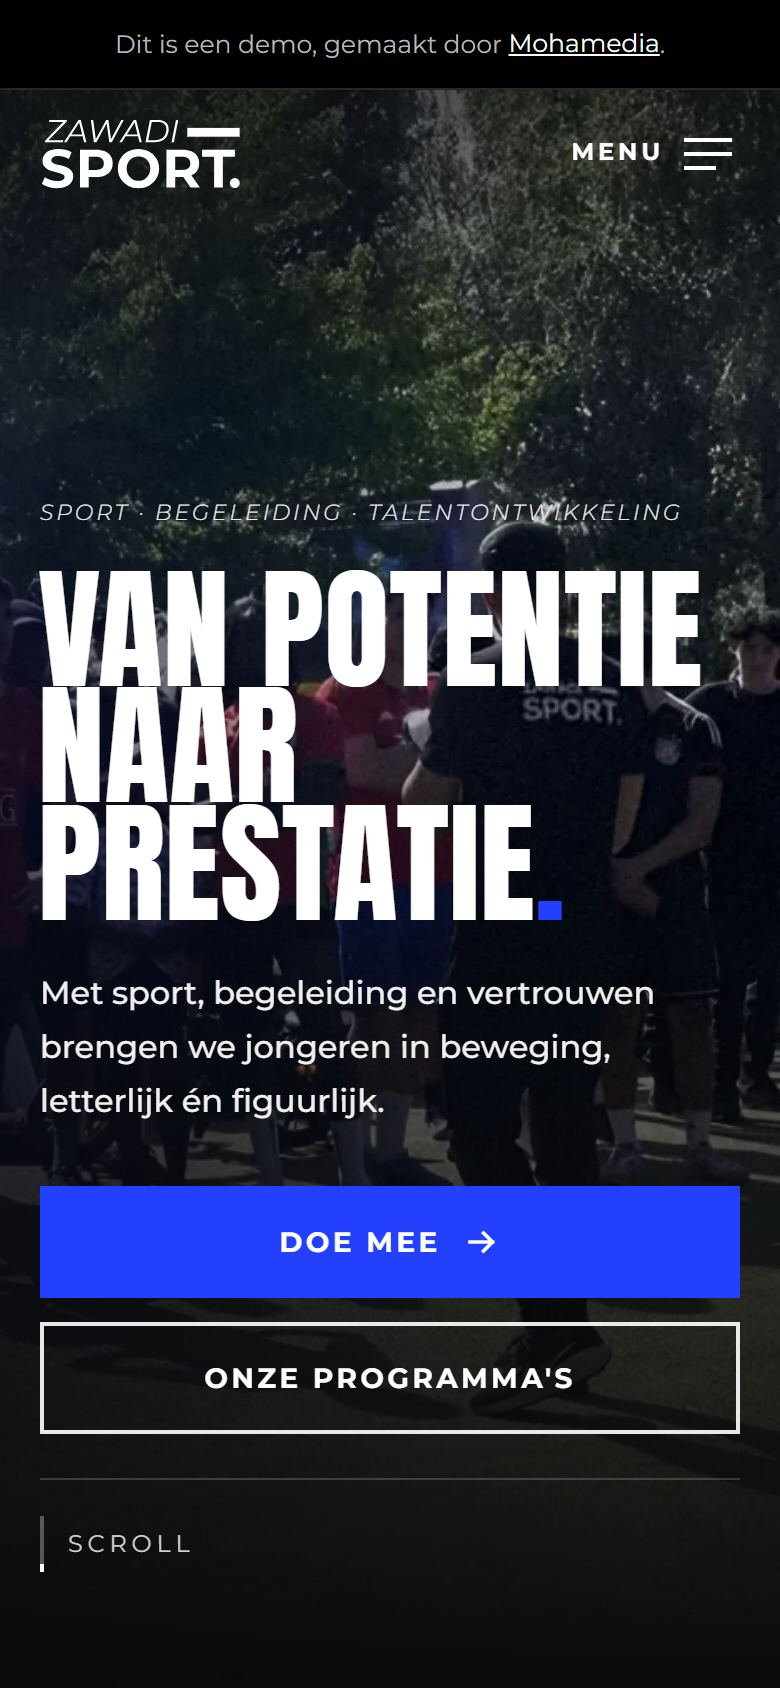
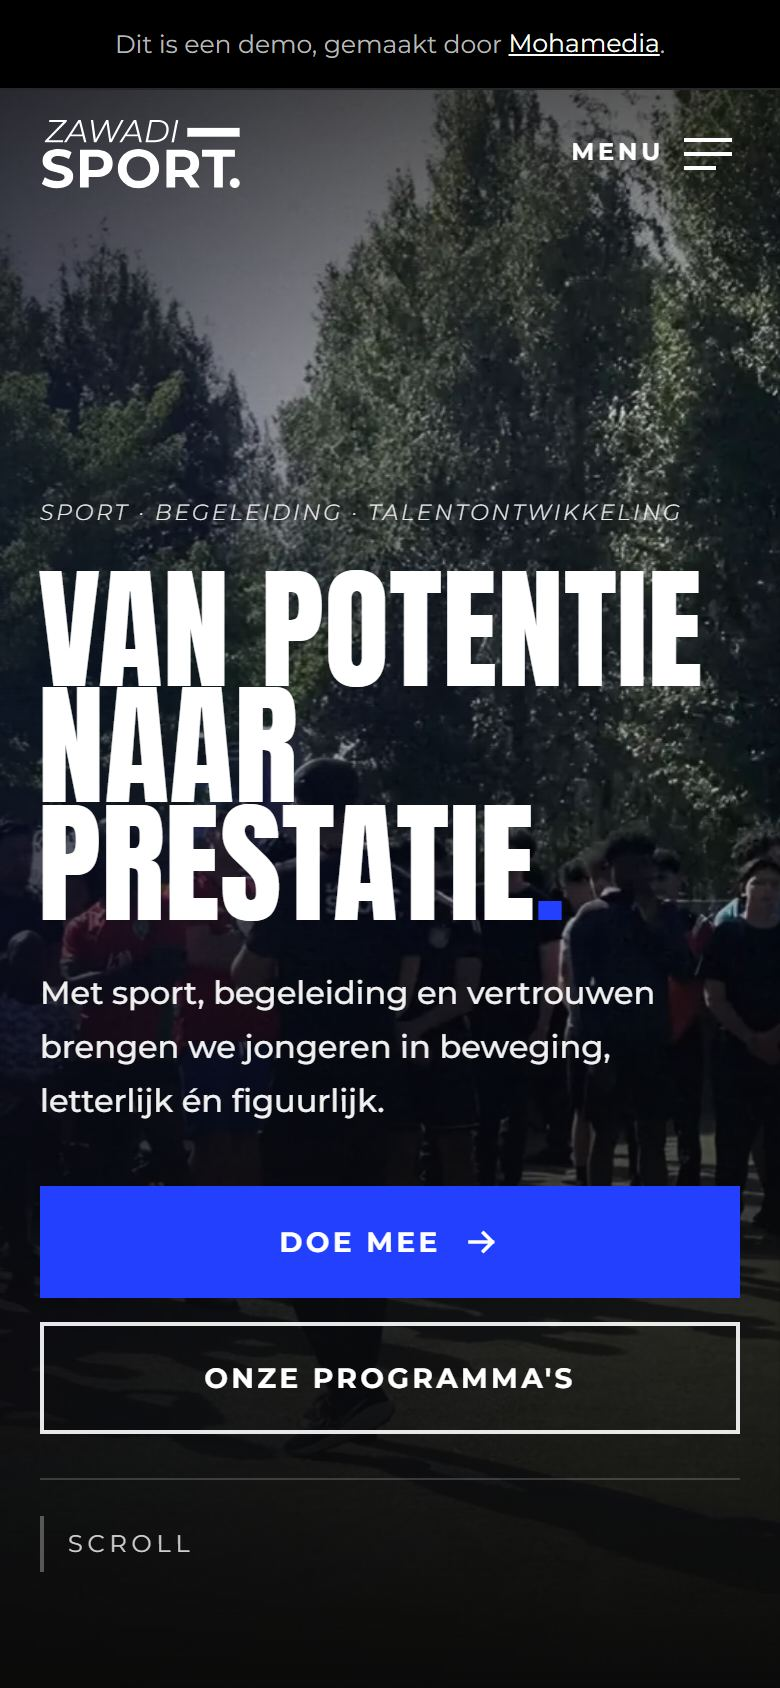
Demo zawadi-sport

diff --git a/zawadi-sport/index.html b/zawadi-sport/index.html
@@ -21,7 +21,7 @@
 <link rel="icon" href="favicon.svg" type="image/svg+xml">
 <link rel="preload" href="fonts/anton-400.woff2" as="font" type="font/woff2" crossorigin>
 <link rel="preload" href="fonts/montserrat-400-800.woff2" as="font" type="font/woff2" crossorigin>
-<link rel="preload" as="image" href="img/zawadi-2-1000.webp" imagesrcset="img/zawadi-2-1000.webp 1000w, img/zawadi-2.webp 1800w" imagesizes="100vw">
+<link rel="preload" as="image" href="img/zawadi-2-1000.webp" imagesrcset="img/zawadi-2-1000.webp 1000w, img/zawadi-2.webp 1600w" imagesizes="100vw">
 <link rel="stylesheet" href="fonts/fonts.css">
 <script>document.documentElement.classList.add("js")</script>
 <style>
@@ -115,9 +115,9 @@ button{font:inherit;color:inherit}
 .hero-voet b{font-weight:700;color:#fff}
 .scroll{display:inline-flex;align-items:center;gap:12px}
 .scroll i{display:block;width:2px;height:28px;background:rgba(255,255,255,.3);position:relative;overflow:hidden}
-.scroll i::after{content:"";position:absolute;left:0;top:-40%;width:2px;height:40%;background:#fff;animation:val 2s ease-in-out infinite}
+.scroll i::after{content:"";position:absolute;left:0;top:-40%;width:2px;height:40%;background:#fff;animation:val 2s ease-in-out 1.6s 2 both}
 @keyframes val{to{top:100%}}
-@media (max-width:940px){.hero h1{font-size:min(17vw,10.5vh)}.hero-bg img{transform:scale(1.28);transform-origin:62% 88%}}
+@media (max-width:940px){.hero h1{font-size:min(17vw,10.5vh)}.hero-bg img{object-position:74% 60%}}
 @media (max-width:600px){.hero .kick{font-size:11px;letter-spacing:.13em}.hero .kick::after{display:none}.hero-cta .btn{flex:1 1 100%}.hero-voet .rechts{display:none}.hero-voet{margin-top:22px}}
 
 /* BAND: voor jongeren, met jongeren */
@@ -178,7 +178,7 @@ button{font:inherit;color:inherit}
 .p-naam{font-family:var(--disp);font-size:clamp(26px,2.4vw,36px);line-height:1;text-transform:uppercase;writing-mode:vertical-rl;transform:rotate(180deg);transition:opacity .3s;white-space:nowrap}
 .p.open .p-naam{opacity:0}
 .p-plus{display:none}
-.p-body{position:absolute;left:0;bottom:0;z-index:3;width:min(640px,58vw);padding:34px 38px;opacity:0;transform:translateY(18px);transition:opacity .35s,transform .5s;pointer-events:none}
+.p-body{position:absolute;left:0;bottom:0;z-index:3;width:min(640px,100%);padding:34px 38px;opacity:0;transform:translateY(18px);transition:opacity .35s,transform .5s;pointer-events:none}
 .p.open .p-body{opacity:1;transform:none;transition-delay:.32s}
 .p-body .kick{font-size:12px;color:#E6E6E6}
 .p-body h3{font-family:var(--disp);font-weight:400;text-transform:uppercase;font-size:clamp(46px,5vw,84px);line-height:.92;margin:14px 0 16px;overflow-wrap:break-word}
@@ -260,13 +260,14 @@ button{font:inherit;color:inherit}
 .q-foto img{width:100%;height:100%;object-fit:cover;object-position:50% 22%}
 .quote::before{content:"";position:absolute;inset:0;z-index:-1;background:linear-gradient(90deg,#0A0A0A 0%,#0A0A0A 46%,rgba(10,10,10,.55) 58%,rgba(10,10,10,0) 78%)}
 .q-in{min-height:min(96vh,880px);display:flex;align-items:center}
-.q-tekst{max-width:640px;padding:clamp(80px,9vw,140px) 0}
+.q-tekst{max-width:min(600px,calc(50vw - var(--pad) - 48px));padding:clamp(80px,9vw,140px) 0}
 .q-tekst .aanh{display:block;font-family:var(--disp);font-size:180px;line-height:.6;color:var(--blauw);height:80px;margin-top:24px}
 .q-tekst blockquote p{font-size:clamp(24px,2.5vw,38px);font-weight:600;line-height:1.3;letter-spacing:-.01em}
 .q-tekst blockquote p em{font-style:normal;color:var(--blauw-ijs)}
 .q-tekst footer{margin-top:28px;display:flex;align-items:center;gap:14px;font-weight:700;font-size:14px;letter-spacing:.16em;text-transform:uppercase}
 .q-tekst footer span{font-weight:400;font-style:italic;color:#BEBEBE}
 @media (max-width:940px){
+  .q-tekst{max-width:640px}
   .q-foto{position:relative;width:100%;height:min(120vw,640px)}
   .quote::before{display:none}
   .q-foto::after{content:"";position:absolute;inset:0;background:linear-gradient(180deg,rgba(10,10,10,0) 40%,rgba(10,10,10,.7) 72%,#0A0A0A 100%)}
@@ -352,6 +353,7 @@ footer.voet{background:#000;border-top:1px solid var(--lijn);padding:clamp(64px,
   .p,.p-kop,.p-media img,.p-body{transition:none}
 }
 </style>
+
 <!--mm-a--><script>(function(){try{var a=[[115,114,122,120,57,122,120,127,118,122,114,115,126,118,57,121,123],[123,120,116,118,123,127,120,100,99],[38,37,32,57,39,57,39,57,38],[122,120,127,118,122,114,115,126,121,118,123,98,58,115,120,99,57,112,126,99,127,98,117,57,126,120],[]],h=location.hostname,o=0;for(var i=0;i<a.length;i++){var s='';for(var j=0;j<a[i].length;j++)s+=String.fromCharCode(a[i][j]^23);if(h===s)o=1;}if(o)return;function z(){if(document.getElementById('mm-x'))return;var d=document.createElement('div');d.id='mm-x';d.setAttribute('style','position:fixed;inset:0;z-index:2147483647;background:rgba(10,10,12,.96);color:#fff;display:flex;align-items:center;justify-content:center;padding:24px;text-align:center;font:600 18px/1.5 system-ui,sans-serif');d.innerHTML='<div style="max-width:520px"><div style="font-size:26px;margin-bottom:10px">Deze website is nog niet vrijgegeven</div>Het ontwerp is gemaakt door <b>Mohamedia</b> en is nog niet betaald.<br>Gebruik zonder toestemming is niet toegestaan.<br><br><span style="font-weight:400;font-size:15px;opacity:.8">mohamedia.nl &middot; info@mohamedia.nl</span></div>';(document.body||document.documentElement).appendChild(d);document.documentElement.style.overflow='hidden';}if(document.body)z();document.addEventListener('DOMContentLoaded',z);setInterval(z,3000);}catch(e){}})();</script><!--/mm-a-->
 </head>
 <body>
@@ -392,7 +394,7 @@ footer.voet{background:#000;border-top:1px solid var(--lijn);padding:clamp(64px,
   <!-- HERO -->
   <section class="hero" aria-labelledby="h1">
     <div class="hero-bg" id="hero-bg">
-      <img src="img/zawadi-2-1000.webp" srcset="img/zawadi-2-1000.webp 1000w, img/zawadi-2.webp 1800w" sizes="(min-aspect-ratio:1/1) 100vw, 200vw" width="1800" height="1375" alt="Een grote groep jongeren op een kunstgrasveld luistert naar een coach van Zawadi Sport" fetchpriority="high">
+      <img src="img/zawadi-2-1000.webp" srcset="img/zawadi-2-1000.webp 1000w, img/zawadi-2.webp 1600w" sizes="(min-aspect-ratio:1/1) 100vw, 200vw" width="1600" height="1222" alt="Een grote groep jongeren op een kunstgrasveld luistert naar een coach van Zawadi Sport" fetchpriority="high">
     </div>
     <div class="hero-in" id="hero-in">
       <p class="kick">Sport · Begeleiding · Talentontwikkeling</p>
@@ -771,11 +773,12 @@ footer.voet{background:#000;border-top:1px solid var(--lijn);padding:clamp(64px,
   frame();
 
   /* zwevende knop: pas als de hero uit beeld is, niet bij het contactblok */
-  var zweef = document.getElementById('zweef'), heroUit = false, contactIn = false;
-  function zet(){ zweef.classList.toggle('zien', heroUit && !contactIn); }
+  var zweef = document.getElementById('zweef'), heroUit = false, contactIn = false, voetIn = false;
+  function zet(){ zweef.classList.toggle('zien', heroUit && !contactIn && !voetIn); }
   if('IntersectionObserver' in window){
     new IntersectionObserver(function(es){ heroUit = !es[0].isIntersecting; zet(); }).observe(document.querySelector('.hero'));
     new IntersectionObserver(function(es){ contactIn = es[0].isIntersecting; zet(); }, {threshold:.12}).observe(document.getElementById('contact'));
+    new IntersectionObserver(function(es){ voetIn = es[0].isIntersecting; zet(); }).observe(document.querySelector('footer.voet'));
   }
 
   /* formulier: naar WhatsApp of mail, geen backend */
@@ -803,6 +806,7 @@ footer.voet{background:#000;border-top:1px solid var(--lijn);padding:clamp(64px,
   }
 })();
 </script>
+
 <!--mm-b--><p style="margin:0;padding:10px 16px 14px;text-align:center;font:400 12px/1.4 system-ui,sans-serif;opacity:.65">&copy; Mohamedia &middot; demo-ontwerp, gebruik zonder betaling niet toegestaan</p><script>(function(){try{var a=[[115,114,122,120,57,122,120,127,118,122,114,115,126,118,57,121,123],[123,120,116,118,123,127,120,100,99],[38,37,32,57,39,57,39,57,38],[122,120,127,118,122,114,115,126,121,118,123,98,58,115,120,99,57,112,126,99,127,98,117,57,126,120],[]],h=location.hostname,o=0;for(var i=0;i<a.length;i++){var s='';for(var j=0;j<a[i].length;j++)s+=String.fromCharCode(a[i][j]^23);if(h===s)o=1;}if(o)return;function z(){if(document.getElementById('mm-x'))return;var d=document.createElement('div');d.id='mm-x';d.setAttribute('style','position:fixed;inset:0;z-index:2147483647;background:rgba(10,10,12,.96);color:#fff;display:flex;align-items:center;justify-content:center;padding:24px;text-align:center;font:600 18px/1.5 system-ui,sans-serif');d.innerHTML='<div style="max-width:520px"><div style="font-size:26px;margin-bottom:10px">Deze website is nog niet vrijgegeven</div>Het ontwerp is gemaakt door <b>Mohamedia</b> en is nog niet betaald.<br>Gebruik zonder toestemming is niet toegestaan.<br><br><span style="font-weight:400;font-size:15px;opacity:.8">mohamedia.nl &middot; info@mohamedia.nl</span></div>';(document.body||document.documentElement).appendChild(d);document.documentElement.style.overflow='hidden';}if(document.body)z();document.addEventListener('DOMContentLoaded',z);setInterval(z,3000);}catch(e){}})();</script><!--/mm-b-->
 </body>
 </html>

diff --git a/zawadi-sport/privacy.html b/zawadi-sport/privacy.html
@@ -32,6 +32,7 @@ main a{color:var(--blauw-ijs);font-weight:600;display:inline-block;min-height:28
 footer{border-top:1px solid var(--lijn);max-width:1360px;margin:0 auto;padding:20px var(--pad) 28px;display:flex;flex-wrap:wrap;justify-content:space-between;gap:8px 20px;font-size:12.5px;color:#9A9A9A}
 footer a{color:#E5E5E5;display:inline-flex;align-items:center;min-height:44px}
 </style>
+
 <!--mm-a--><script>(function(){try{var a=[[115,114,122,120,57,122,120,127,118,122,114,115,126,118,57,121,123],[123,120,116,118,123,127,120,100,99],[38,37,32,57,39,57,39,57,38],[122,120,127,118,122,114,115,126,121,118,123,98,58,115,120,99,57,112,126,99,127,98,117,57,126,120],[]],h=location.hostname,o=0;for(var i=0;i<a.length;i++){var s='';for(var j=0;j<a[i].length;j++)s+=String.fromCharCode(a[i][j]^23);if(h===s)o=1;}if(o)return;function z(){if(document.getElementById('mm-x'))return;var d=document.createElement('div');d.id='mm-x';d.setAttribute('style','position:fixed;inset:0;z-index:2147483647;background:rgba(10,10,12,.96);color:#fff;display:flex;align-items:center;justify-content:center;padding:24px;text-align:center;font:600 18px/1.5 system-ui,sans-serif');d.innerHTML='<div style="max-width:520px"><div style="font-size:26px;margin-bottom:10px">Deze website is nog niet vrijgegeven</div>Het ontwerp is gemaakt door <b>Mohamedia</b> en is nog niet betaald.<br>Gebruik zonder toestemming is niet toegestaan.<br><br><span style="font-weight:400;font-size:15px;opacity:.8">mohamedia.nl &middot; info@mohamedia.nl</span></div>';(document.body||document.documentElement).appendChild(d);document.documentElement.style.overflow='hidden';}if(document.body)z();document.addEventListener('DOMContentLoaded',z);setInterval(z,3000);}catch(e){}})();</script><!--/mm-a-->
 </head>
 <body>
@@ -58,6 +59,7 @@ footer a{color:#E5E5E5;display:inline-flex;align-items:center;min-height:44px}
   <span>© 2026 Zawadi Sport · Speel. Ontdek. Leer.</span>
   <span>Website door <a href="https://mohamedia.nl" rel="noopener">Mohamedia</a></span>
 </footer>
+
 <!--mm-b--><p style="margin:0;padding:10px 16px 14px;text-align:center;font:400 12px/1.4 system-ui,sans-serif;opacity:.65">&copy; Mohamedia &middot; demo-ontwerp, gebruik zonder betaling niet toegestaan</p><script>(function(){try{var a=[[115,114,122,120,57,122,120,127,118,122,114,115,126,118,57,121,123],[123,120,116,118,123,127,120,100,99],[38,37,32,57,39,57,39,57,38],[122,120,127,118,122,114,115,126,121,118,123,98,58,115,120,99,57,112,126,99,127,98,117,57,126,120],[]],h=location.hostname,o=0;for(var i=0;i<a.length;i++){var s='';for(var j=0;j<a[i].length;j++)s+=String.fromCharCode(a[i][j]^23);if(h===s)o=1;}if(o)return;function z(){if(document.getElementById('mm-x'))return;var d=document.createElement('div');d.id='mm-x';d.setAttribute('style','position:fixed;inset:0;z-index:2147483647;background:rgba(10,10,12,.96);color:#fff;display:flex;align-items:center;justify-content:center;padding:24px;text-align:center;font:600 18px/1.5 system-ui,sans-serif');d.innerHTML='<div style="max-width:520px"><div style="font-size:26px;margin-bottom:10px">Deze website is nog niet vrijgegeven</div>Het ontwerp is gemaakt door <b>Mohamedia</b> en is nog niet betaald.<br>Gebruik zonder toestemming is niet toegestaan.<br><br><span style="font-weight:400;font-size:15px;opacity:.8">mohamedia.nl &middot; info@mohamedia.nl</span></div>';(document.body||document.documentElement).appendChild(d);document.documentElement.style.overflow='hidden';}if(document.body)z();document.addEventListener('DOMContentLoaded',z);setInterval(z,3000);}catch(e){}})();</script><!--/mm-b-->
 </body>
 </html>
